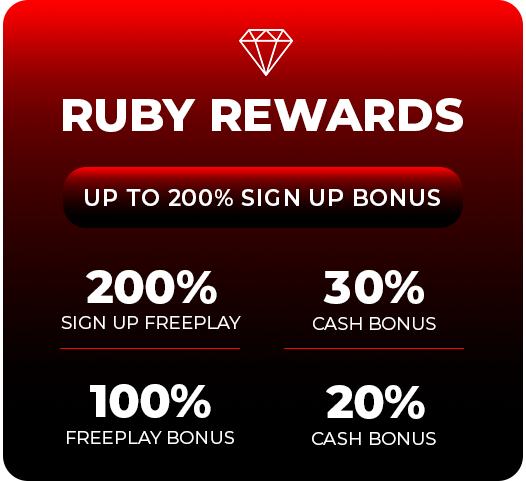
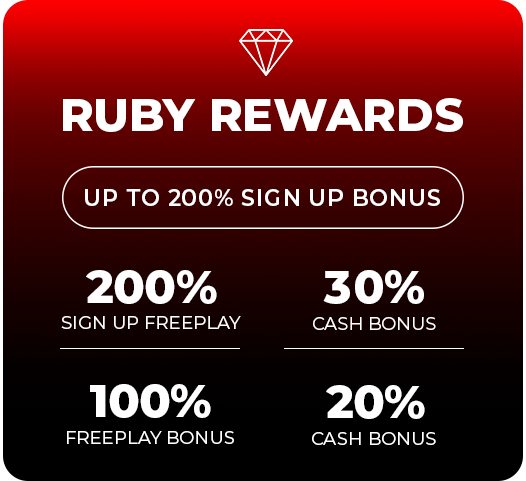
Refresh offer images v2

Changed region(s): [[0.1217, 0.343, 0.8821, 0.499]]

diff --git a/index.html b/index.html
@@ -2963,10 +2963,10 @@
         <!-- <h3 class="promo-title-desktop">RUBY WAGER PROMOTIONS</h3>
         <h3 class="promo-title-mobile">RUBY WAGER PROMOTIONS</h3> -->
         <div class="offers-grid">
-          <img src="offers/final offers/Ruby-offersV1.png" alt="Ruby Rewards Offer" class="offer-img" onclick="openAuthModal('register')" style="cursor: pointer;">
-          <img src="offers/final offers/Ruby-offersV2.png" alt="Crypto Friendly Offer" class="offer-img" onclick="openAuthModal('register')" style="cursor: pointer;">
-          <img src="offers/final offers/Ruby-offersV3.png" alt="Network Rewards Offer" class="offer-img" onclick="openAuthModal('register')" style="cursor: pointer;">
-          <img src="offers/final offers/Ruby-offersV4.png" alt="Parlay Boost Offer" class="offer-img" onclick="openAuthModal('register')" style="cursor: pointer;">
+          <img src="offers/final offers/Ruby-offersV1.png?v=2" alt="Ruby Rewards Offer" class="offer-img" onclick="openAuthModal('register')" style="cursor: pointer;">
+          <img src="offers/final offers/Ruby-offersV2.png?v=2" alt="Crypto Friendly Offer" class="offer-img" onclick="openAuthModal('register')" style="cursor: pointer;">
+          <img src="offers/final offers/Ruby-offersV3.png?v=2" alt="Network Rewards Offer" class="offer-img" onclick="openAuthModal('register')" style="cursor: pointer;">
+          <img src="offers/final offers/Ruby-offersV4.png?v=2" alt="Parlay Boost Offer" class="offer-img" onclick="openAuthModal('register')" style="cursor: pointer;">
         </div>
       </div>
     </div>
